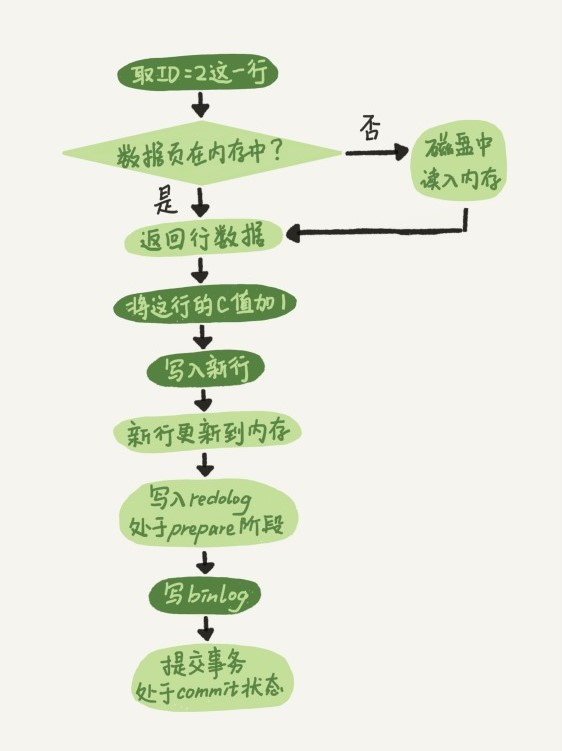
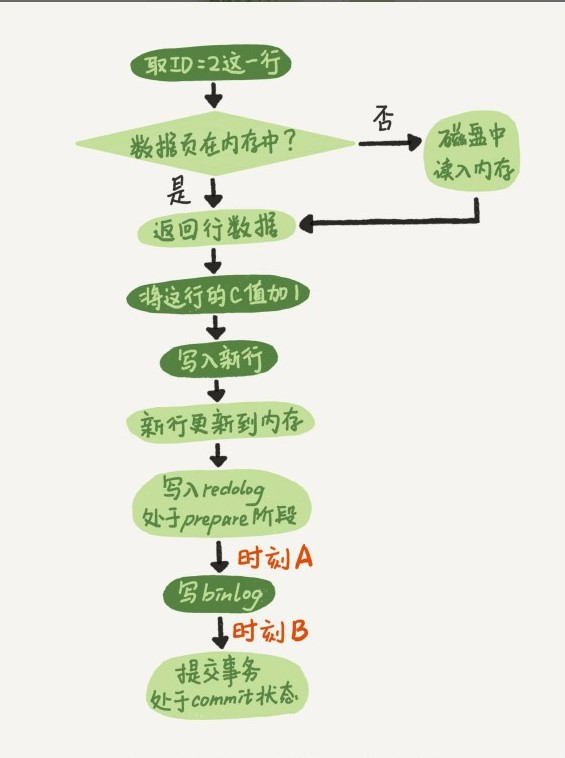
WAL

Changed region(s): [[0.121, 0.0306, 0.9377, 0.9494]]

diff --git a/MySQL基础架构.md b/MySQL基础架构.md
@@ -110,22 +110,34 @@
 
 ## 6.WAL Write-Ahead Log
 
-> 所有修改提交前都要先写入日志文件, 再写磁盘.  具体就是: 当有记录需要更新时, `InnoDB`会先将记录写入到`redo log`, 并更新内存(`Buffer Pool`或者是`Change Buffer`), 更新完成.  引擎会在适当的时机, 将实际的数据写入磁盘.
+> 所有修改提交前都要先写入日志文件, 再写磁盘.  具体就是: 
+>
+> 1. 当有记录需要更新时, `InnoDB`会先将磁盘页更改写入到`redo log`, 更新内存(`Buffer Pool`或者是`Change Buffer`), 并写`binlog`. 
+> 2. 内存中数据被修改后, 称为脏页, 最终需要落盘. 可以和`redo log`无关联.
+> 3. 崩溃恢复场景中, `InnoDB`如果判断到数据丢失, 就会将其读到内存, 然后将`redo log`更新内存中的内容. 成为脏页, 最后落盘. 
+>
+> WAL机制, 将数据写入转换为日志写入(顺序写), 同时通过组提交(`redo log`, `binlog`写完再做`fsync`) 提高磁盘效率.
 
 ![数据更新过程](./image/redolog_binlog.jpg)
 
 ### 1.redo log 重做日志
 
-> InnoDB 引擎特有的日志. 提高了写操作的效率(**数据的随机写入变为日志的顺序写入**), 并实现`crash-safe`能力(异常终止时, 可以通过`redo log`恢复.
+> InnoDB 引擎特有的日志. 实现`crash-safe`能力(异常终止时, 可以通过`redo log`恢复.
 >
 > 在磁盘上表现为`ib_logfile[number]`文件的形式.
 
 ![redolog](./image/redolog.jpg)
 
 - 空间大小固定. `check_point`: 需要擦除位置, 擦除前, 要把记录更新到数据文件. `write pos`: 当前记录位置.
-- 记录的是**数据页的物理修改**, 也就是**某个页产生了什么修改**. 相当于记录了要对磁盘进行什么样操作.
-- prepare和commit: 保证redolog 和 binlog的一致.
+- 记录的是**数据页的物理修改**, 也就是**某个页产生了什么修改**. 相当于记录了要对磁盘进行什么样操作, **但不是数据页的完整数据**. 所以, `redo log`没有能力独自更新磁盘数据. 而是要依赖原有数据.
+- `prepare`和`commit`: 两阶段提交.
+- 磁盘写入机制:
+    - 有三个层级: `redo log buffer`, `FS page cache`, `硬盘`
+    - 事务执行过程中, 写`redo log buffer`.
+    - 事务完成时按照`innodb_flush_log_at_trx_commit`配置策略: 0:事务提交不写磁盘, 1:持久化到磁盘, 2.只写磁盘,不`fsync`.
+    - 后台进程, 每隔1秒, 就会将`redo log buffer`写入磁盘, 并`fsync`
 - 配置:
+    - `innodb_log_buffer_size`: 文件大小.
     - `nnodb_log_files_in_group`:  Redo log文件数量.(按序号循环覆盖写入)
     - `innodb_log_group_home_dir`: 文件路径.
     - `innodb_flush_log_at_trx_commit=1`: 每次事务完成执行`flush`, 保证落盘. 
@@ -141,6 +153,24 @@
     - `statement`: 记录`sql`语句.
     - `row`: 记录行的内容, 记两套(更新前, 更新后).
     - 可以通过`binlog_format=mix/row/statement`配置.
+- `binlog`完整性:
+    - 为确保数据的正确归档, `binlog`通过格式保证完整性.
+    - `statement`格式的, 最后会有`COMMIT`;
+    - `row`格式的, 最后会有`XID event`.
+    - `binlog_checksum=CRC32`: 校验和
+- 磁盘写入机制:
+    - 事务执行过程中, 先把日志写入`binlog cache`, 事务提交, 再把`binlog cache`写入文件.
+    - 参数`sync_binlog`控制刷盘时机: 0, 受系统控制, 1.n, n次事务提交后强制刷盘.
 
+### 3.两阶段提交和异常时的处理
 
-
+- `redo log`和`binlog`有一个共同的数据字段, `XID`, 完成两者的相互关联.
+- A时刻崩溃: 事务回滚. 
+- B时刻崩溃:
+    - 如果`redo log`事务完整, 也就是有了`commit`标识, 直接提交.
+    - 如果`redo log`只有`prepare`. 则判断`binlog`是否完整(`binlog`有特殊格式保证完整性)
+        - `binlog`完整: 提交事务.
+        - `binlog`不完整, 回滚事务.
+- 双"1"配置:
+    - `sync_binlog=1`
+    - `innodb_flush_log_at_trx_commit=1`
